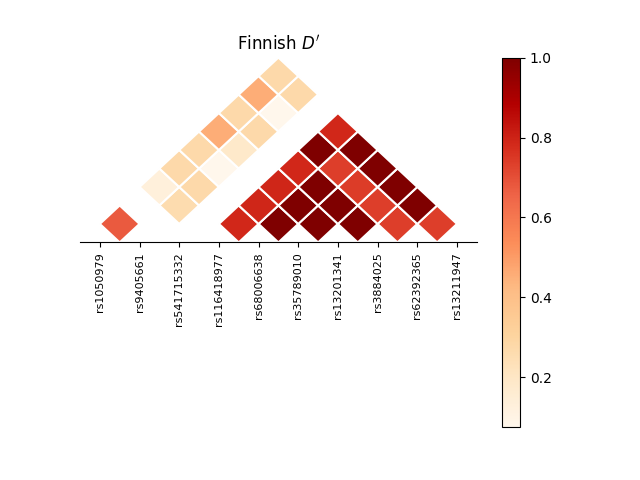
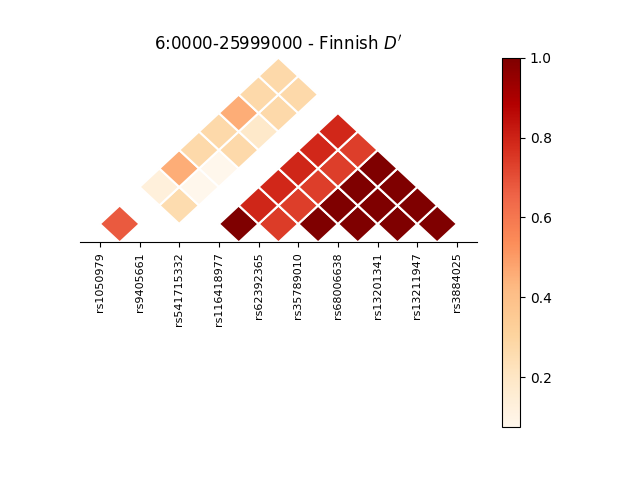
Code snippets & figure for LD documentation

diff --git a/Documentation/code_snippets/LD/heatmap3.py b/Documentation/code_snippets/LD/heatmap3.py
@@ -1,0 +1,34 @@
+def LD_plot(LD, labels, title):
+
+    n = LD.shape[0]
+
+    figure = plt.figure()
+
+    # mask triangle matrix
+    mask = np.tri(n, k=0)
+    LD_masked = np.ma.array(LD, mask=mask)
+
+    # create rotation/scaling matrix
+    t = np.array([[1, 0.5], [-1, 0.5]])
+    # create coordinate matrix and transform it
+    coordinate_matrix = np.dot(np.array([(i[1], i[0])
+                                         for i in itertools.product(range(n, -1, -1), range(0, n + 1, 1))]), t)
+    # plot
+    ax = figure.add_subplot(1, 1, 1)
+    ax.spines['bottom'].set_position('center')
+    ax.spines['top'].set_visible(False)
+    ax.spines['right'].set_visible(False)
+    ax.spines['left'].set_visible(False)
+    ax.get_yaxis().set_visible(False)
+    plt.tick_params(axis='x', which='both', top=False)
+    plt.pcolor(coordinate_matrix[:, 1].reshape(n + 1, n + 1),
+                   coordinate_matrix[:, 0].reshape(n + 1, n + 1), np.flipud(LD_masked), edgecolors = "white", linewidth = 1.5, cmap = 'OrRd')
+    plt.xticks(ticks=np.arange(len(labels)) + 0.5, labels=labels, rotation='vertical', fontsize=8)
+    plt.colorbar()
+
+    # add title
+    plt.title(f"{title}", loc = "center")
+   
+    return figure
+
+LD_heatmap_plot = ld_plot(LD_matrix_df, SNP_list, "LD plot title")

diff --git a/Documentation/code_snippets/LD/heatmap2.py b/Documentation/code_snippets/LD/heatmap2.py
@@ -1,0 +1,23 @@
+LD_matrix_df = pd.DataFrame(columns=[SNP_list]) # One column per SNP in list (Since a list object is passed, could just pass the SNP list
+for SNP_1 in SNP_list:
+    # Create empty list
+    LD_value_list = []
+    # Sub-loop - Loops to create list of datapoints
+    for SNP_2 in SNP_list:
+        if SNP_1 == SNP_2:
+            SNP_Datapoint = 1
+            LD_value_list.append(SNP_Datapoint)
+        else:
+            #try:
+            # Search for specific row containing value
+            LD_row = LD_df.loc[((LD_df['SNP_1'] == SNP_1) & (LD_df['SNP_2'] == SNP_2) | 
+                                (LD_df['SNP_1'] == SNP_2) & (LD_df['SNP_2'] == SNP_1))] 
+            # Extract value and add to list
+            SNP_Datapoint = LD_row['GBR_r2'].tolist()[0] # currently using Finnish data
+            LD_value_list.append(SNP_Datapoint)
+            #except:
+                #invalid_list.append((SNP_main,SNP_second))
+    # Convert into dataframe row and transpose
+    row = pd.DataFrame(LD_value_list).T
+    row.columns = LD_matrix_df.columns
+    LD_matrix_df = pd.concat([LD_matrix_df, row])

diff --git a/Documentation/code_snippets/LD/collecting3.py b/Documentation/code_snippets/LD/collecting3.py
@@ -1,0 +1,21 @@
+# Create Empty dataframe 
+LD_dataset = pd.DataFrame(columns=['SNP_1', 'SNP_2', 'FIN_D\'', 'FIN_r2', 'TSI_D\'', 'TSI_r2', 'GBR_D\'', 'GBR_r2'])
+# Indexes the respective LD calculation for each pair and adds it to the data
+for SNP_1,SNP_2 in zip(SNP_1_list,SNP_2_list):
+    # Finland
+    FIN_D = LD_D_FIN[SNP_1].loc[SNP_2]
+    FIN_r2 = LD_r2_FIN[SNP_1].loc[SNP_2]
+    # Italy - Tuscany
+    TSI_D = LD_D_TSI[SNP_1].loc[SNP_2]
+    TSI_r2 = LD_r2_TSI[SNP_1].loc[SNP_2]
+    # British
+    GBR_D = LD_D_GBR[SNP_1].loc[SNP_2]
+    GBR_r2 = LD_r2_GBR[SNP_1].loc[SNP_2]
+    # Create row of data and combine with LD dataset dataframe
+    row_list = [SNP_1, SNP_2, FIN_D, FIN_r2, TSI_D, TSI_r2, GBR_D, GBR_r2]
+    row = pd.DataFrame(row_list).T
+
+    row.columns = LD_dataset.columns
+    LD_dataset = pd.concat([LD_dataset, row])
+# Write out LD dataset as a TSV
+LD_dataset.to_csv('LD_T1DM_Chr6.tsv', sep="\t", index=False)

diff --git a/Documentation/code_snippets/LD/results1.py b/Documentation/code_snippets/LD/results1.py
@@ -1,0 +1,16 @@
+def remove_invalid_SNPs(SNP_list, LD_dataset_file = "data/TSVs/LD_T1DM_Chr6.tsv"):
+# remove SNPs returned from query which have no LD values in LD dataset
+    # Load LD dataset as pandas dataframe
+    LD_df = pd.read_table(LD_dataset_file)
+    # checks for SNPs in subset which are not in LD dataset
+    invalid_list = []
+    for SNP in SNP_list:
+        if SNP not in LD_df['SNP_1'].tolist(): # check if SNP is in LD dataset
+            invalid_list.append(SNP) # add to list of invalid SNPs
+    print(invalid_list)
+    # remove invalid SNPs from SNP list passed to LD plot
+    for SNP in invalid_list:
+        SNP_list.remove(SNP)
+    return SNP_list
+
+SNP_list = remove_invalid_SNPs(SNP_list)

diff --git a/Documentation/code_snippets/LD/results2.py b/Documentation/code_snippets/LD/results2.py
@@ -1,0 +1,10 @@
+# Load LD dataset and create empty dataframe for filtered results
+LD_df = pd.read_table(LD_dataset_file)
+LD_results_df = pd.DataFrame(columns=['SNP_1', 'SNP_2', 'FIN_D\'', 'FIN_r2', 'TSI_D\'', 'TSI_r2', 'GBR_D\'', 'GBR_r2']) 
+# create a pair of lists containing the 1st and 2nd SNP of each combination
+SNP_1_list, SNP_2_list = SNP_pair_lists(SNP_list)
+# Loop indexing LD dataset using each pair of SNPs
+for SNP_1,SNP_2 in zip(SNP_1_list,SNP_2_list):
+    LD_row = LD_df.loc[((LD_df['SNP_1'] == SNP_1) & (LD_df['SNP_2'] == SNP_2) | 
+                        (LD_df['SNP_1'] == SNP_2) & (LD_df['SNP_2'] == SNP_1))] 
+    LD_results_df = pd.concat([LD_results_df, LD_row])

diff --git a/Documentation/code_snippets/LD/collecting2.py b/Documentation/code_snippets/LD/collecting2.py
@@ -1,0 +1,11 @@
+# Take list of SNPs and creates a pair of lists containing the 1st and 2nd SNP of each combination  
+def SNP_pair_lists(SNP_list):
+    SNP_combinations = list(itertools.combinations(SNP_list,2))
+    SNP_1_list = [] # 1st SNP of pair
+    SNP_2_list = [] # 2nd SNP of pair
+    for SNP_pair in SNP_combinations:
+        SNP_1_list.append(SNP_pair[0])
+        SNP_2_list.append(SNP_pair[1])
+    return SNP_1_list, SNP_2_list
+
+SNP_1_list, SNP_2_list = SNP_pair_lists(SNP_list)

diff --git a/Documentation/code_snippets/LD/heatmap1.py b/Documentation/code_snippets/LD/heatmap1.py
@@ -1,0 +1,6 @@
+# load LD dataset
+LD_df = pd.read_table('LD_T1DM_Chr6.tsv')
+# checks for SNPs in subset which are not in LD dataset
+SNP_list = remove_invalid_SNPs(SNP_list)
+# create a pair of lists containing the 1st and 2nd SNP of each combination
+SNP_1_list, SNP_2_list = SNP_pair_lists(SNP_list)
